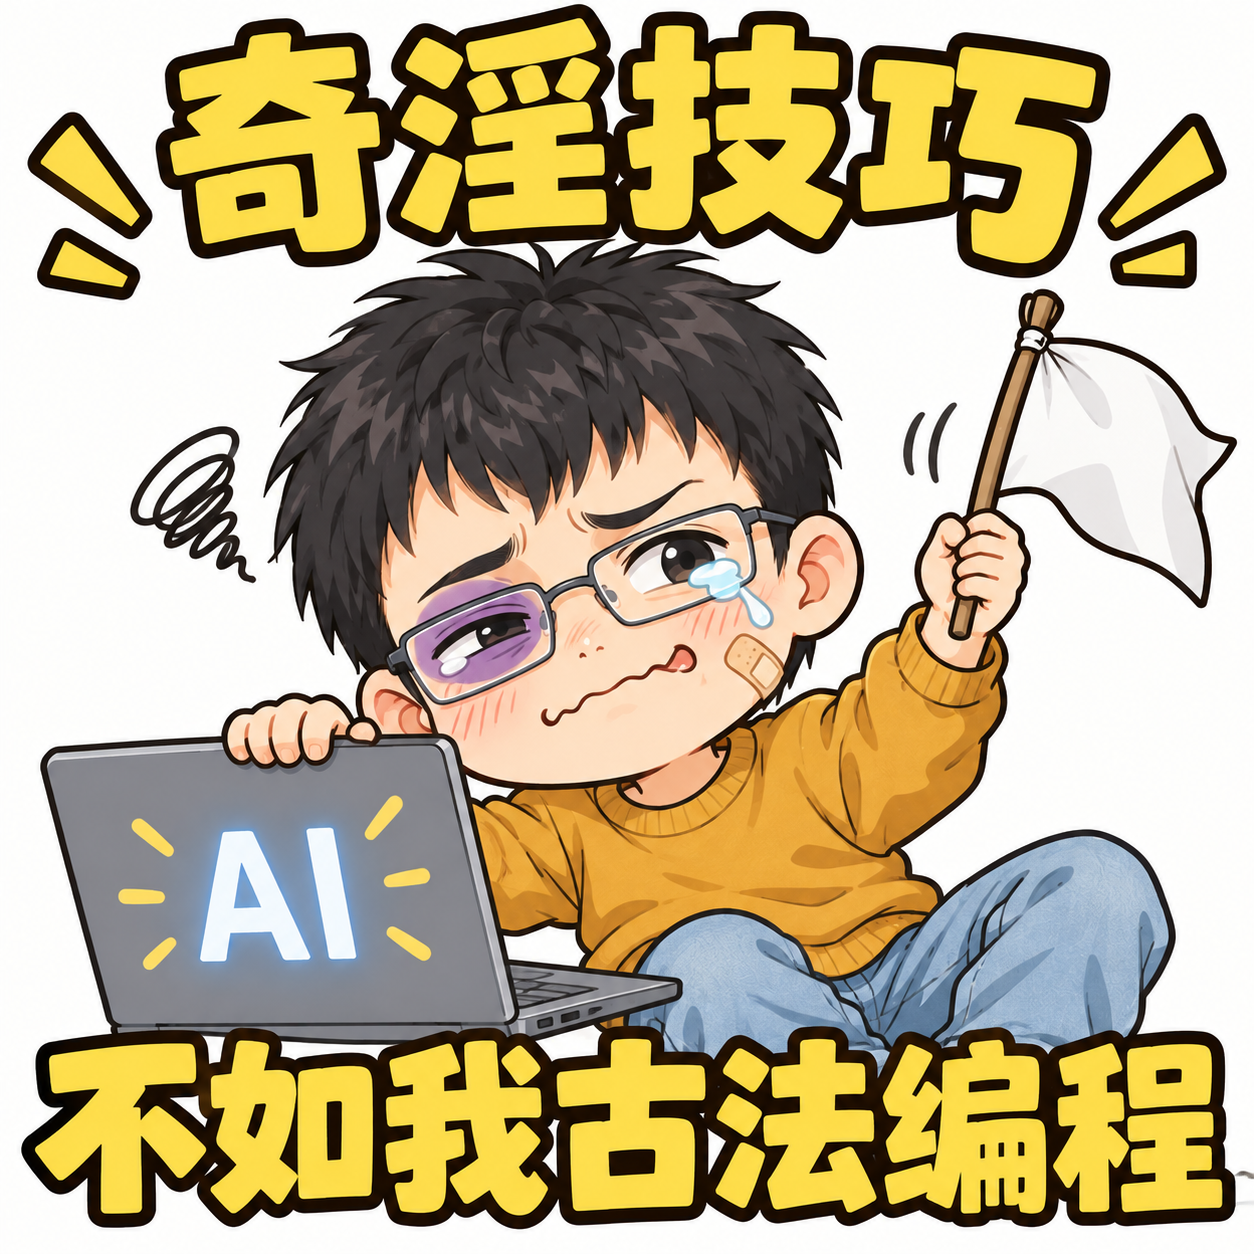
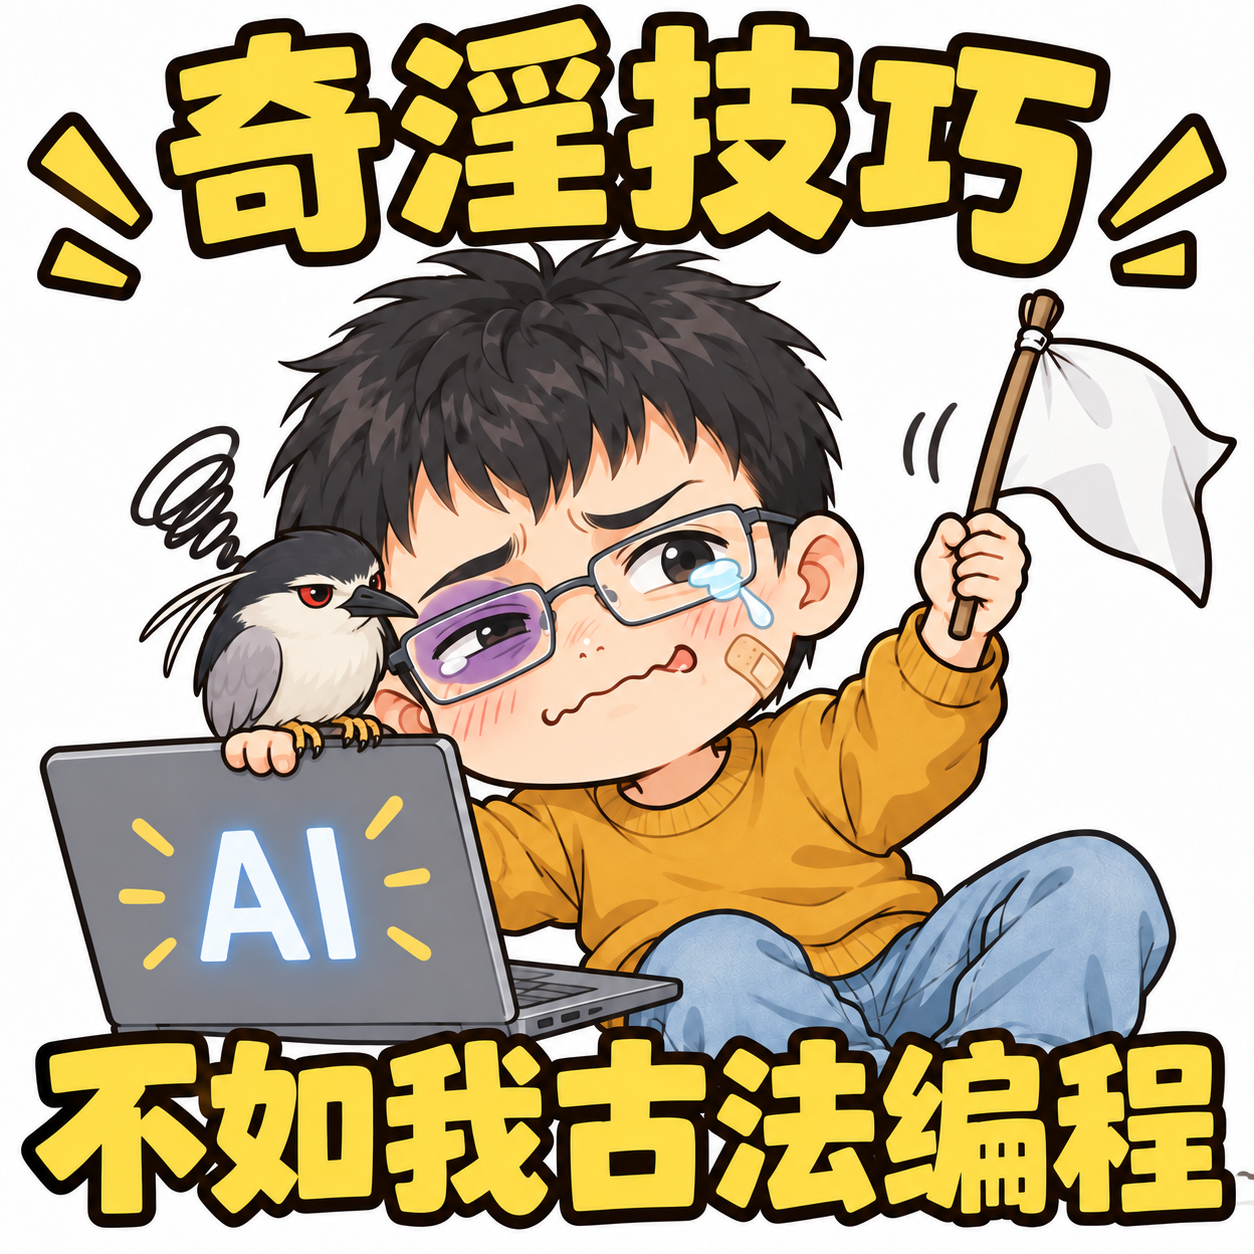
提交导论课件更新

diff --git a/intro/Section02.tex b/intro/Section02.tex
@@ -3,7 +3,7 @@
 \begin{frame}{HeadTA：李超凡}
     \begin{columns}[c]
         \begin{column}{0.30\textwidth}
-            \includegraphics[width=\linewidth]{LCF.jpg}
+            \includegraphics[width=\linewidth]{LCF.png}
         \end{column}
         \begin{column}{0.66\textwidth}
             \small
@@ -129,7 +129,7 @@
             2025年全国大学生电子设计大赛\alert{省一等奖}\par
             \smallskip
 
-            23级惊天四区\alert{唯一留得住的区}
+            23级四驱兄弟中\alert{唯一留得住的区}
             \smallskip
 
             乐邦詹士（\alert{一人一组版}）\par
